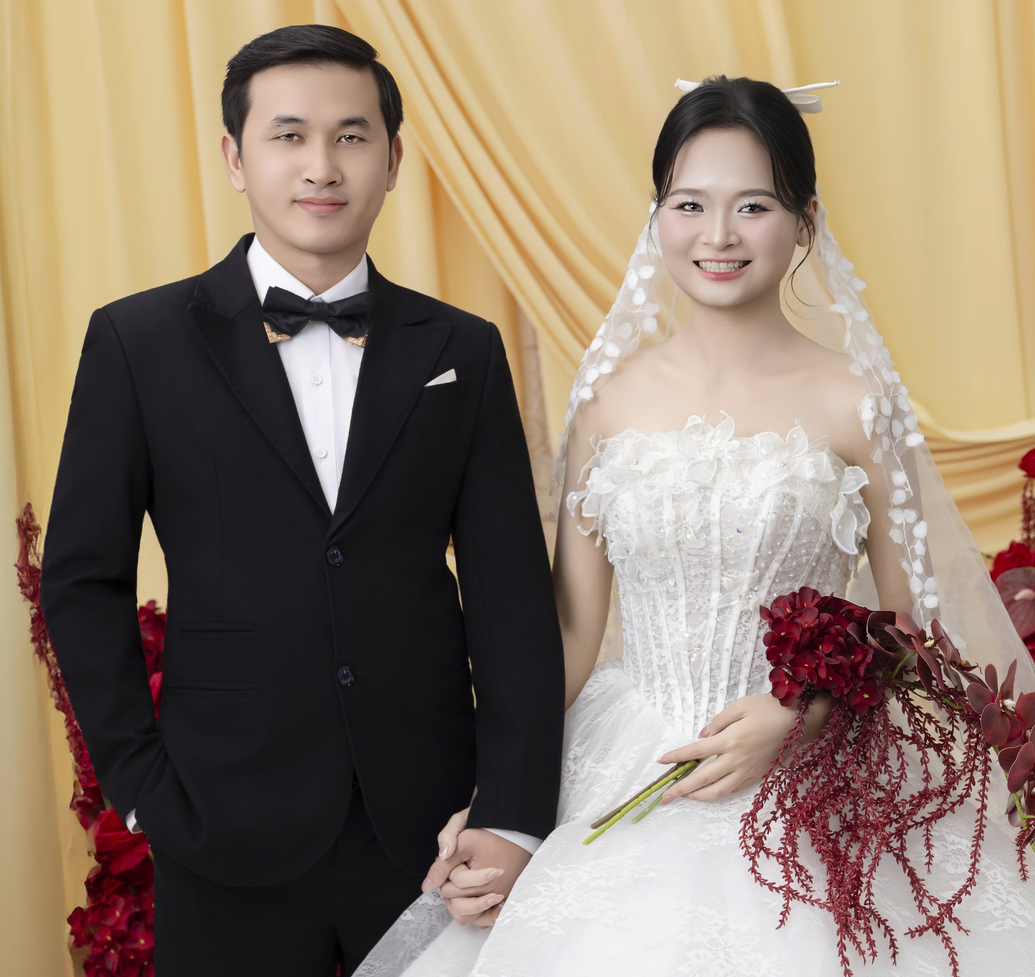
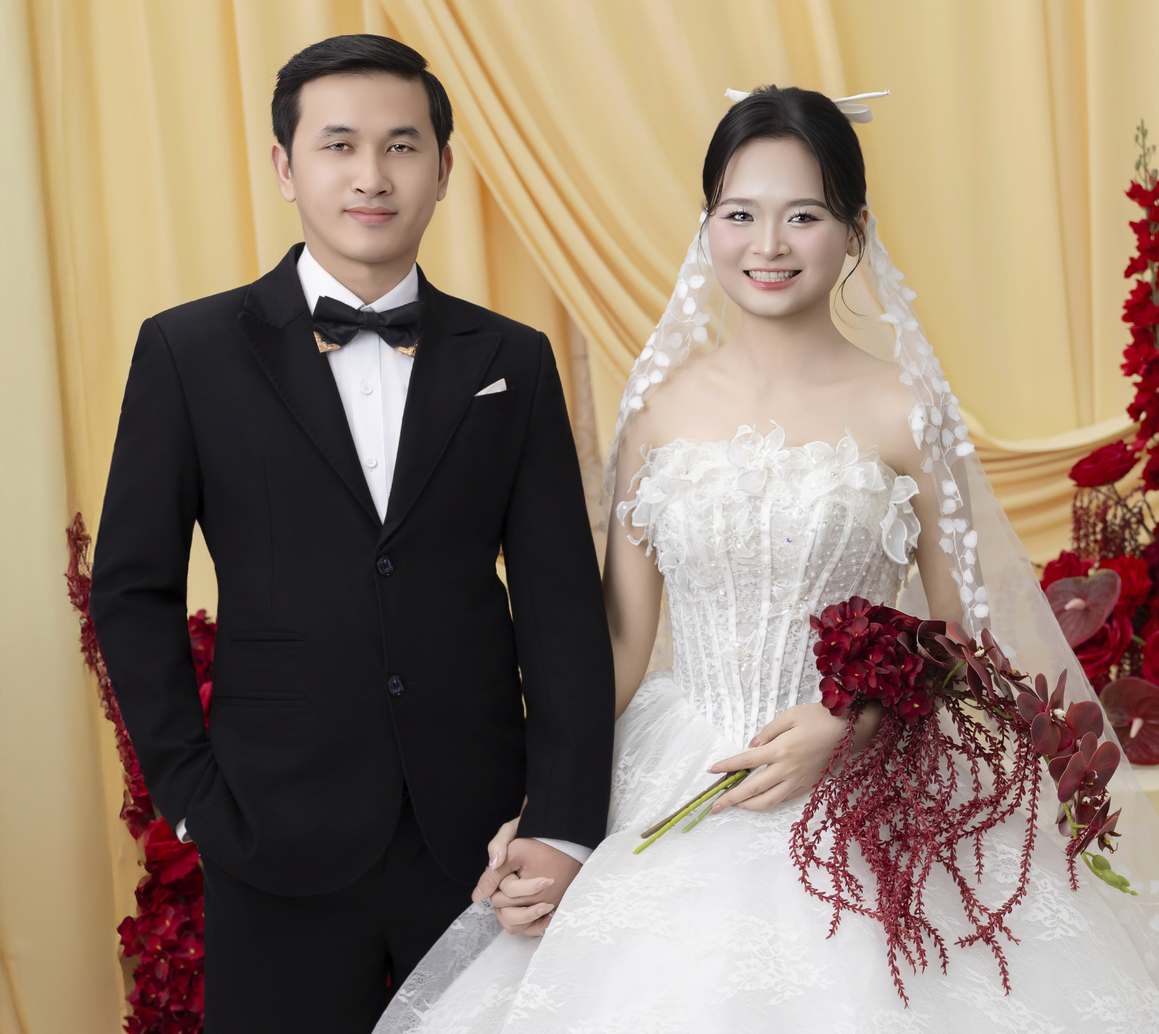
code hhhhh

diff --git a/src/components/wedding/StorySection.tsx b/src/components/wedding/StorySection.tsx
@@ -1,6 +1,7 @@
 import { useState } from 'react';
 import { Heart, ChevronDown, ChevronUp } from 'lucide-react';
 import dating from "../../image/date.webp";
+import married from "../../image/maried.webp";
 const stories = [
   {
     date: '02/2025',
@@ -25,7 +26,7 @@ const stories = [
     date: '03/2026',
     title: 'Kết Hôn',
     description: 'Từ những rung động đầu tiên đến lời hẹn ước trăm năm, chúng mình quyết định viết tiếp câu chuyện ấy bằng một đám cưới mang tên: Hạnh Phúc',
-    image: 'https://images.unsplash.com/photo-1515934751635-c81c6bc9a2d8?w=600',
+    image: married,
   },
 ];
 
@@ -42,9 +43,9 @@ const StorySection = () => {
         Câu Chuyện Tình Yêu
         </h2>
 
-         <p className="max-w-2xl mx-auto mt-3 text-sm md:text-base leading-relaxed text-muted-foreground">
+         <p className="max-w-2xl mx-auto mt-3 text-sm md:text-base leading-relaxed text-muted-foreground text-justify">
 
-          Chúng mình tin rằng mỗi cuộc gặp gỡ đều có lý do của nó.Một người làm việc với hệ thống và công nghệ, một người làm việc với con người và cảm xúc. Từ hai thế giới khác biệt, chúng mình gặp nhau ở điểm chung: sự thấu hiểu và chân thành. Sau nhiều lần “update cảm xúc” và “fix lỗi hiểu lầm”, chúng mình quyết định “merge cuộc đời” và tạo nên một dự án mang tên: Gia đình nhỏ.
+          Chúng mình tin rằng mỗi cuộc gặp gỡ đều có lý do của nó. Một người làm việc với hệ thống và công nghệ, một người làm việc với con người và cảm xúc. Từ hai thế giới khác biệt, chúng mình gặp nhau ở điểm chung sự thấu hiểu và chân thành. Sau nhiều lần “update cảm xúc” và “fix lỗi hiểu lầm”, chúng mình quyết định “merge cuộc đời” và tạo nên một dự án mang tên: Gia đình nhỏ.
           </p>
         </div>
 

diff --git a/src/components/wedding/CoupleSection.tsx b/src/components/wedding/CoupleSection.tsx
@@ -70,7 +70,7 @@ const CoupleSection = () => {
             </h3>
 
             <p className="text-muted-foreground leading-relaxed px-4 mt-auto">
-              Nàng CS xinh xắn với nụ cười dịu dàng, quen chăm sóc của khách hàng, cuối cùng nàng đã gặp được “vị khách” muốn ở bên để chăm sóc suốt đời và
+              Nàng CS xinh xắn với nụ cười dịu dàng, quen chăm sóc khách hàng, cuối cùng nàng đã gặp được “vị khách” muốn ở bên để chăm sóc suốt đời và
               làm bến đỗ hạnh phúc 💕
             </p>
           </div>
